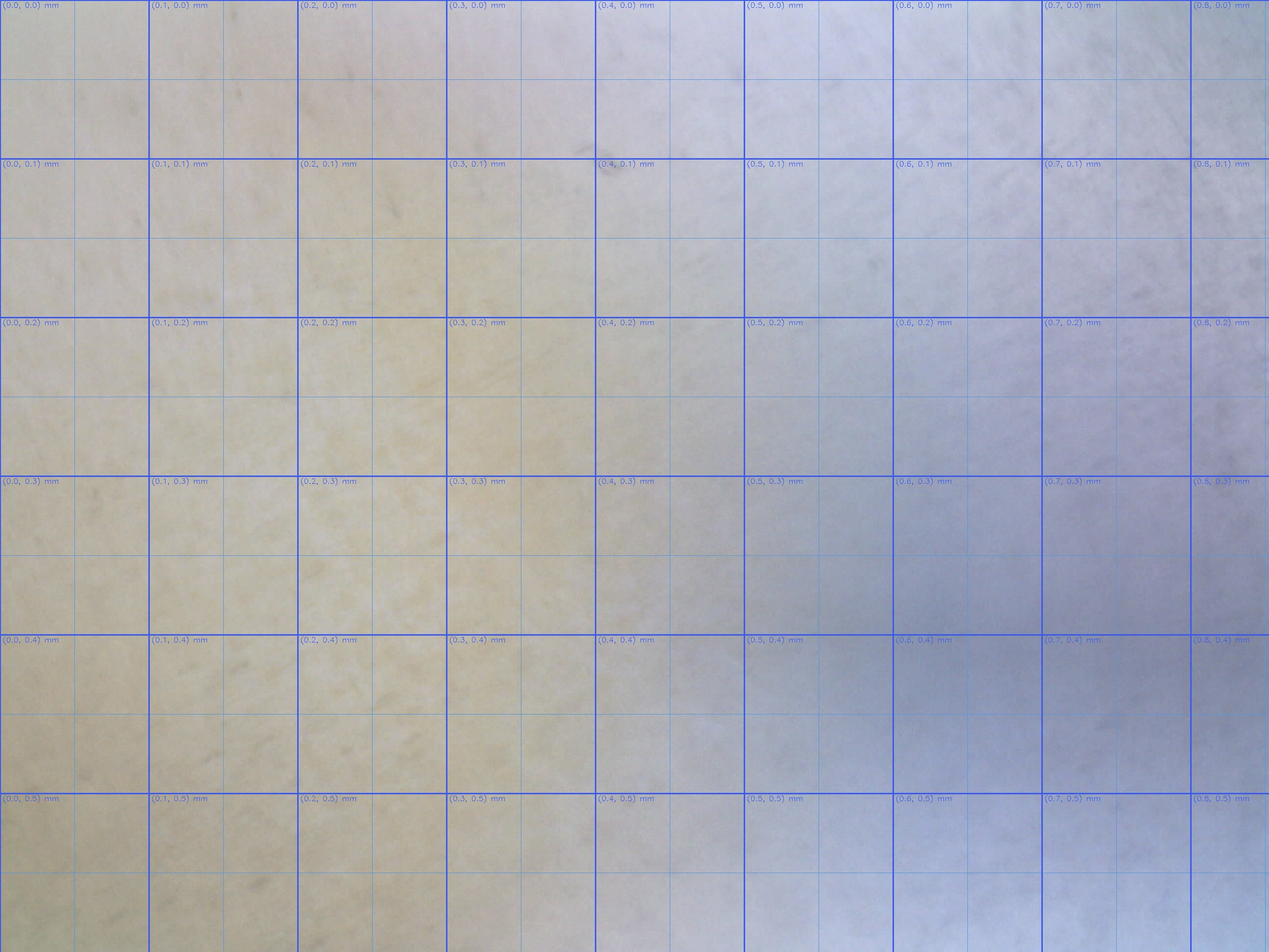
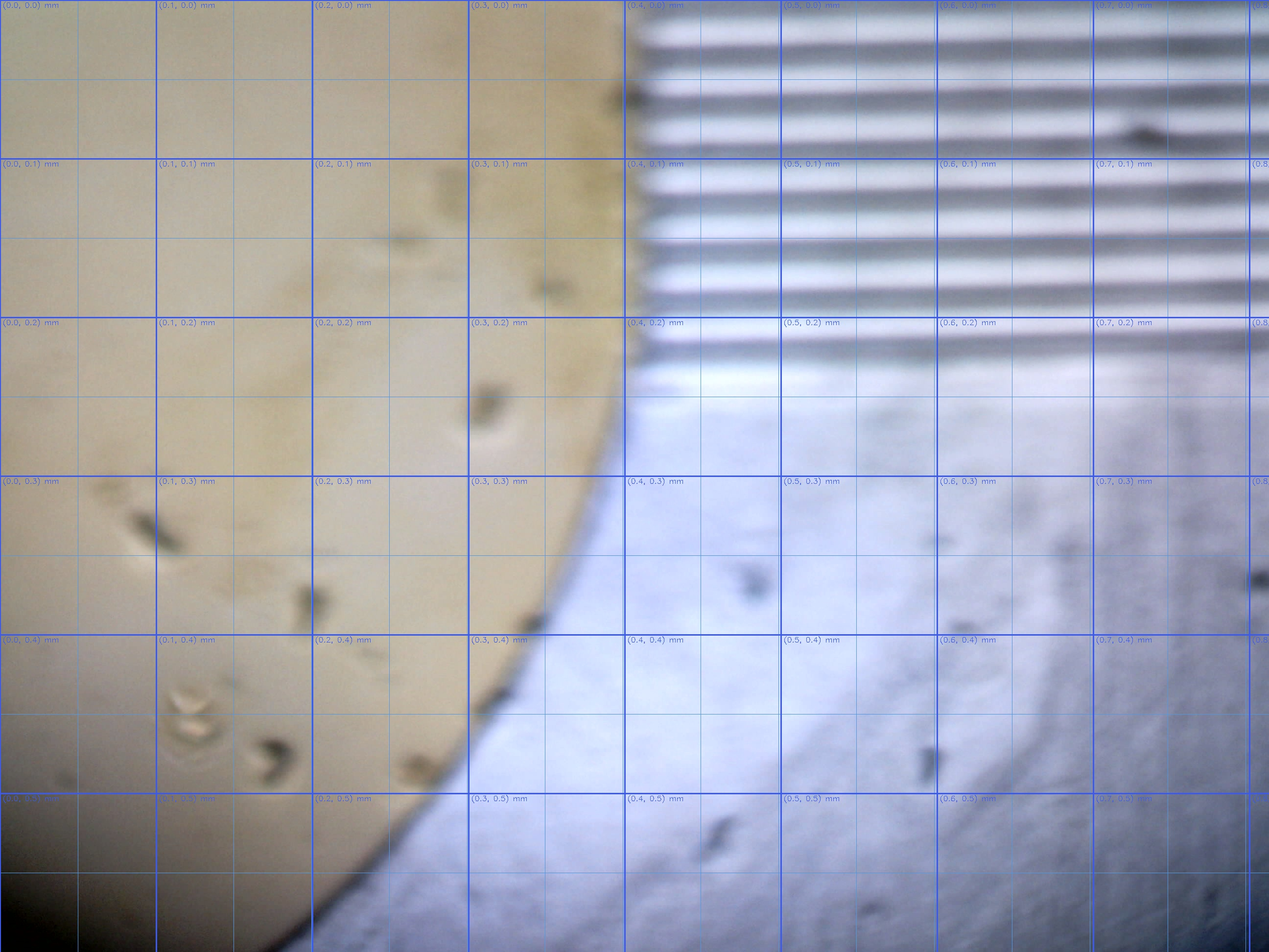
being weird

diff --git a/src/dino_lite/inlet_imaging.py b/src/dino_lite/inlet_imaging.py
@@ -21,9 +21,9 @@ import time
 from PyQt5.QtGui import QPixmap, QImage
 import logging as log
 
-Z_RANGE = (9.0, 12.0)
-INLET_POSITION = (112.2, 125.1, Z_RANGE[0])
-Z_STEP = 0.05
+Z_RANGE = (6.1, 6.4)
+INLET_POSITION = (111.5, 125.1, Z_RANGE[0])
+Z_STEP = 0.01
 
 
 class ScanThread(QThread):
@@ -275,7 +275,7 @@ class ScanUI(QWidget):
         self.progress_bar.setValue(progress)
 
     def closeEvent(self, event):
-        self.rob.out_of_way()
+        # self.rob.out_of_way()
         self.scope.end()
         self.cam._camera.release()
         event.accept()
